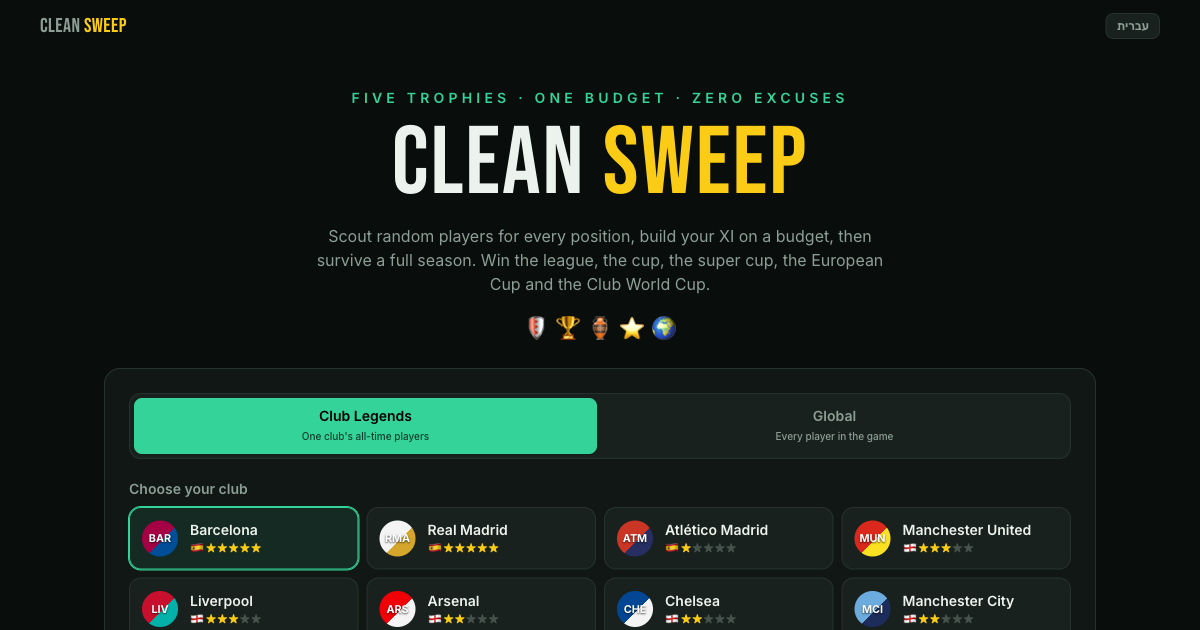
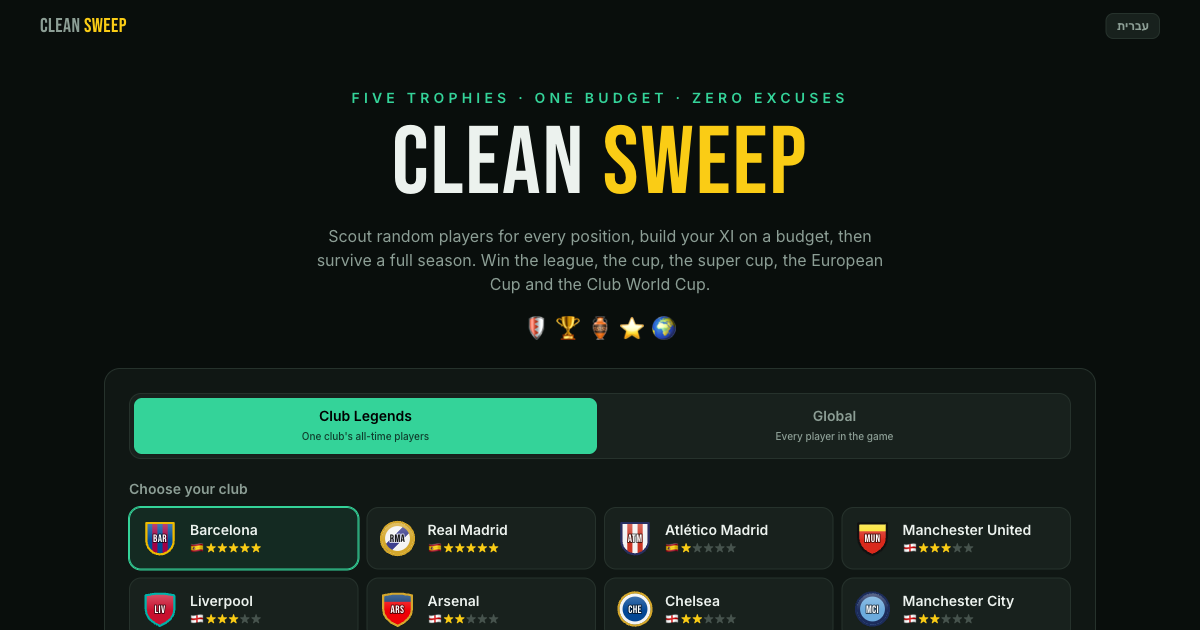
Replace circle badges with original procedural crests
The 14 legends clubs get hand-made crests built from their colours and a
characteristic motif (stripes, rings, bands, lozenges) plus their short code.
Every other team gets a deterministic crest from its name and colour, with
guaranteed pattern contrast. Nothing copies a real (trademarked) crest.

Also refreshes the social preview image.

diff --git a/src/ui/crest.ts b/src/ui/crest.ts
@@ -1,0 +1,136 @@
+/**
+ * Original, procedurally drawn club crests.
+ *
+ * These evoke each club through its colours and a simple heraldic pattern; they are
+ * deliberately not copies of any real crest (real crests are trademarks).
+ * Pure functions only, so the specs are unit-testable.
+ */
+import { CLUBS } from '../data/clubs';
+import { hashString } from '../engine/rng';
+
+export type CrestShape = 'shield' | 'round' | 'spanish' | 'pointed' | 'octagon';
+export type CrestPattern =
+  | 'solid' | 'vstripes' | 'hoops' | 'halves' | 'quarters' | 'sash' | 'chevron' | 'chief' | 'band' | 'cross' | 'lozenges';
+
+export interface CrestSpec {
+  shape: CrestShape;
+  pattern: CrestPattern;
+  c1: string; // field
+  c2: string; // pattern
+  trim: string; // outline
+  ring?: string; // thick inner ring (round crests)
+  text: string; // monogram
+}
+
+/** Hand-made specs for the 14 legends clubs: their colours and a characteristic motif. */
+const CLUB_CRESTS: Record<string, Omit<CrestSpec, 'text'>> = {
+  barcelona: { shape: 'spanish', pattern: 'vstripes', c1: '#a50044', c2: '#004d98', trim: '#edbb00' },
+  'real-madrid': { shape: 'round', pattern: 'sash', c1: '#f4f4f4', c2: '#3d3f8f', trim: '#d4a72c', ring: '#d4a72c' },
+  atletico: { shape: 'spanish', pattern: 'vstripes', c1: '#cb3524', c2: '#f4f4f4', trim: '#272e61' },
+  'man-united': { shape: 'shield', pattern: 'chief', c1: '#da291c', c2: '#fbe122', trim: '#111111' },
+  liverpool: { shape: 'pointed', pattern: 'solid', c1: '#c8102e', c2: '#f6eb61', trim: '#00b2a9' },
+  arsenal: { shape: 'pointed', pattern: 'chief', c1: '#ef0107', c2: '#063672', trim: '#d4a72c' },
+  chelsea: { shape: 'round', pattern: 'solid', c1: '#034694', c2: '#f4f4f4', trim: '#d4a72c', ring: '#f4f4f4' },
+  'man-city': { shape: 'round', pattern: 'solid', c1: '#6cabdd', c2: '#1c2c5b', trim: '#1c2c5b', ring: '#1c2c5b' },
+  bayern: { shape: 'round', pattern: 'lozenges', c1: '#0066b2', c2: '#f4f4f4', trim: '#dc052d', ring: '#dc052d' },
+  dortmund: { shape: 'round', pattern: 'solid', c1: '#fde100', c2: '#121212', trim: '#121212', ring: '#121212' },
+  juventus: { shape: 'pointed', pattern: 'vstripes', c1: '#121212', c2: '#f4f4f4', trim: '#d4a72c' },
+  milan: { shape: 'spanish', pattern: 'vstripes', c1: '#fb090b', c2: '#121212', trim: '#f4f4f4' },
+  inter: { shape: 'round', pattern: 'vstripes', c1: '#0068a8', c2: '#121212', trim: '#d4a72c', ring: '#d4a72c' },
+  psg: { shape: 'round', pattern: 'band', c1: '#004170', c2: '#da291c', trim: '#da291c', ring: '#f4f4f4' },
+};
+
+const SHAPES: CrestShape[] = ['shield', 'round', 'spanish', 'pointed', 'octagon'];
+const PATTERNS: CrestPattern[] = ['solid', 'vstripes', 'hoops', 'halves', 'quarters', 'sash', 'chevron', 'chief', 'band', 'cross'];
+
+/** Relative luminance (0 = black, 1 = white) of a #rrggbb colour. */
+export function luminance(hex: string): number {
+  const n = parseInt(hex.replace('#', '').padEnd(6, '0').slice(0, 6), 16);
+  const ch = [(n >> 16) & 255, (n >> 8) & 255, n & 255].map((v) => {
+    const c = v / 255;
+    return c <= 0.03928 ? c / 12.92 : ((c + 0.055) / 1.055) ** 2.4;
+  });
+  return 0.2126 * ch[0] + 0.7152 * ch[1] + 0.0722 * ch[2];
+}
+
+function contrastPartner(c1: string, c2?: string): string {
+  // Filler teams have a generic near-white second colour: make sure the pattern is visible.
+  if (c2 && Math.abs(luminance(c1) - luminance(c2)) > 0.25) return c2;
+  return luminance(c1) > 0.5 ? '#141414' : '#f4f4f4';
+}
+
+export function crestFor(team: { id?: string; name?: string; short: string; color: string; color2: string }): CrestSpec {
+  const club = CLUBS.find((c) => c.id === team.id || c.name === team.name);
+  const text = (team.short || '?').slice(0, 3).toUpperCase();
+  if (club && CLUB_CRESTS[club.id]) return { ...CLUB_CRESTS[club.id], text: club.short };
+  const h = hashString(team.id ?? team.name ?? team.short);
+  const c1 = team.color;
+  const c2 = contrastPartner(c1, team.color2);
+  const shape = SHAPES[h % SHAPES.length];
+  const pattern = PATTERNS[(h >>> 3) % PATTERNS.length];
+  const trim = luminance(c1) > 0.5 ? '#2a2a2a' : (h >>> 7) % 3 === 0 ? '#d4a72c' : '#f4f4f4';
+  return { shape, pattern, c1, c2, trim, ring: shape === 'round' && (h >>> 9) % 2 === 0 ? c2 : undefined, text };
+}
+
+/** SVG path of the crest outline in a 100×100 box. */
+export const SHAPE_PATH: Record<CrestShape, string> = {
+  shield: 'M10 8 H90 V46 C90 72 72 88 50 96 C28 88 10 72 10 46 Z',
+  round: 'M50 4 A46 46 0 1 1 49.99 4 Z',
+  spanish: 'M12 7 H88 V56 A38 38 0 0 1 12 56 Z',
+  pointed: 'M10 12 Q50 2 90 12 V50 Q90 80 50 97 Q10 80 10 50 Z',
+  octagon: 'M31 5 H69 L95 31 V69 L69 95 H31 L5 69 V31 Z',
+};
+
+/** Pattern geometry (drawn in c2 over a c1 field), as SVG polygon point lists or rects. */
+export function patternShapes(p: CrestPattern): { rects: [number, number, number, number][]; polys: string[] } {
+  const rects: [number, number, number, number][] = [];
+  const polys: string[] = [];
+  switch (p) {
+    case 'vstripes':
+      for (let x = 100 / 7; x < 100; x += 200 / 7) rects.push([x, 0, 100 / 7, 100]);
+      break;
+    case 'hoops':
+      for (let y = 10; y < 100; y += 20) rects.push([0, y, 100, 10]);
+      break;
+    case 'halves':
+      rects.push([50, 0, 50, 100]);
+      break;
+    case 'quarters':
+      rects.push([50, 0, 50, 50], [0, 50, 50, 50]);
+      break;
+    case 'sash':
+      polys.push('0,82 18,100 100,18 82,0');
+      break;
+    case 'chevron':
+      polys.push('0,34 50,66 100,34 100,52 50,84 0,52');
+      break;
+    case 'chief':
+      rects.push([0, 0, 100, 30]);
+      break;
+    case 'band':
+      rects.push([37, 0, 26, 100]);
+      break;
+    case 'cross':
+      rects.push([41, 0, 18, 100], [0, 40, 100, 18]);
+      break;
+    case 'lozenges':
+      for (let r = 0; r <= 7; r++) {
+        for (let c = 0; c <= 7; c++) {
+          if ((r + c) % 2) continue;
+          const x = c * 14;
+          const y = r * 14;
+          polys.push(`${x},${y - 7} ${x + 7},${y} ${x},${y + 7} ${x - 7},${y}`);
+        }
+      }
+      break;
+    case 'solid':
+      break;
+  }
+  return { rects, polys };
+}
+
+/** Monogram colours that stay readable on the crest's main colour. */
+export function monogramColors(spec: CrestSpec): { fill: string; stroke: string } {
+  const centre = spec.pattern === 'band' || spec.pattern === 'cross' ? spec.c2 : spec.c1;
+  return luminance(centre) > 0.45 ? { fill: '#111111', stroke: 'rgba(255,255,255,0.75)' } : { fill: '#ffffff', stroke: 'rgba(0,0,0,0.6)' };
+}

diff --git a/src/ui/components/common.tsx b/src/ui/components/common.tsx
@@ -1,23 +1,62 @@
-import type { ReactNode } from 'react';
+import { useId, type ReactNode } from 'react';
 import { formatPrice } from '../../engine/pricing';
 import type { Team } from '../../engine/types';
 import { useT } from '../../i18n';
+import { crestFor, monogramColors, patternShapes, SHAPE_PATH } from '../crest';
 
-export function TeamBadge({ team, size = 28 }: { team: Pick<Team, 'short' | 'color' | 'color2' | 'kind'>; size?: number }) {
+export function TeamBadge({
+  team, size = 28,
+}: { team: Pick<Team, 'short' | 'color' | 'color2' | 'kind'> & Partial<Pick<Team, 'id' | 'name'>>; size?: number }) {
   const t = useT();
+  const uid = useId().replace(/:/g, '');
+  const spec = crestFor(team);
+  const path = SHAPE_PATH[spec.shape];
+  const { rects, polys } = patternShapes(spec.pattern);
+  const mono = monogramColors(spec);
+  const showText = size >= 26;
   return (
-    <span
-      className="relative inline-flex shrink-0 items-center justify-center rounded-full font-bold text-white shadow-sm"
-      style={{
-        width: size,
-        height: size,
-        fontSize: Math.max(8, size * 0.3),
-        background: `linear-gradient(135deg, ${team.color} 0 55%, ${team.color2} 55% 100%)`,
-        textShadow: '0 1px 2px rgba(0,0,0,.7)',
-      }}
-      aria-hidden
-    >
-      {team.short.slice(0, 3)}
+    <span className="relative inline-flex shrink-0" style={{ width: size, height: size }} aria-hidden>
+      <svg viewBox="0 0 100 100" width={size} height={size} className="drop-shadow-sm">
+        <defs>
+          <clipPath id={`c${uid}`}>
+            <path d={path} />
+          </clipPath>
+          <linearGradient id={`g${uid}`} x1="0" y1="0" x2="0" y2="1">
+            <stop offset="0" stopColor="#fff" stopOpacity="0.32" />
+            <stop offset="0.55" stopColor="#fff" stopOpacity="0" />
+          </linearGradient>
+        </defs>
+        <g clipPath={`url(#c${uid})`}>
+          <rect width="100" height="100" fill={spec.c1} />
+          {rects.map(([x, y, w, h], i) => (
+            <rect key={`r${i}`} x={x} y={y} width={w} height={h} fill={spec.c2} />
+          ))}
+          {polys.map((pts, i) => (
+            <polygon key={`p${i}`} points={pts} fill={spec.c2} />
+          ))}
+          {spec.ring && <circle cx="50" cy="50" r="39" fill="none" stroke={spec.ring} strokeWidth="9" />}
+          <rect width="100" height="100" fill={`url(#g${uid})`} />
+        </g>
+        <path d={path} fill="none" stroke={spec.trim} strokeWidth="6" strokeLinejoin="round" />
+        {showText && (
+          <text
+            x="50"
+            y="51"
+            textAnchor="middle"
+            dominantBaseline="central"
+            fontFamily="'Bebas Neue', Impact, sans-serif"
+            fontSize={spec.text.length > 3 ? 24 : 30}
+            letterSpacing="1"
+            fill={mono.fill}
+            stroke={mono.stroke}
+            strokeWidth="5"
+            paintOrder="stroke"
+            strokeLinejoin="round"
+          >
+            {spec.text}
+          </text>
+        )}
+      </svg>
       {team.kind === 'legends' && (
         <span className="absolute -end-1 -top-1 text-[10px]" title={t.legendsTitle}>⭐</span>
       )}

diff --git a/src/ui/crest.test.ts b/src/ui/crest.test.ts
@@ -1,0 +1,41 @@
+import { CLUBS } from '../data/clubs';
+import { EURO_FILLER, LEAGUES, WORLD_FILLER } from '../data/leagues';
+import { crestFor, luminance, monogramColors, patternShapes, SHAPE_PATH } from './crest';
+
+const fillers = [
+  ...Object.values(LEAGUES).flatMap((l) => [...l.filler, ...l.challengers].map((f) => ({ name: f[0], short: f[1], color: f[3] }))),
+  ...Object.values(LEAGUES).flatMap((l) => l.lower.map((n) => ({ name: n, short: n.slice(0, 3).toUpperCase(), color: '#777777' }))),
+  ...[...EURO_FILLER, ...WORLD_FILLER].map((f) => ({ name: f[0], short: f[1], color: f[3] })),
+].map((f) => ({ ...f, id: f.name.toLowerCase(), color2: '#f4f4f4' }));
+
+describe('crests', () => {
+  it('gives every legends club its own hand-made crest with its short code', () => {
+    const keys = new Set<string>();
+    for (const c of CLUBS) {
+      const spec = crestFor({ ...c });
+      expect(spec.text).toBe(c.short);
+      keys.add(JSON.stringify({ ...spec, text: '' }));
+    }
+    expect(keys.size).toBe(CLUBS.length); // no two clubs share a design
+  });
+
+  it('uses the club crest for the user team in club mode (matched by name)', () => {
+    const club = CLUBS[0];
+    expect(crestFor({ id: 'user', name: club.name, short: club.short, color: club.color, color2: club.color2 })).toEqual(crestFor(club));
+  });
+
+  it('draws a valid, visible crest for every other team', () => {
+    for (const f of fillers) {
+      const spec = crestFor(f);
+      expect(SHAPE_PATH[spec.shape], f.name).toBeTruthy();
+      expect(spec, f.name).toEqual(crestFor(f)); // deterministic
+      if (spec.pattern !== 'solid') {
+        expect(Math.abs(luminance(spec.c1) - luminance(spec.c2)), `${f.name} pattern contrast`).toBeGreaterThan(0.2);
+        const { rects, polys } = patternShapes(spec.pattern);
+        expect(rects.length + polys.length).toBeGreaterThan(0);
+      }
+      const m = monogramColors(spec);
+      expect(['#111111', '#ffffff']).toContain(m.fill);
+    }
+  });
+});
